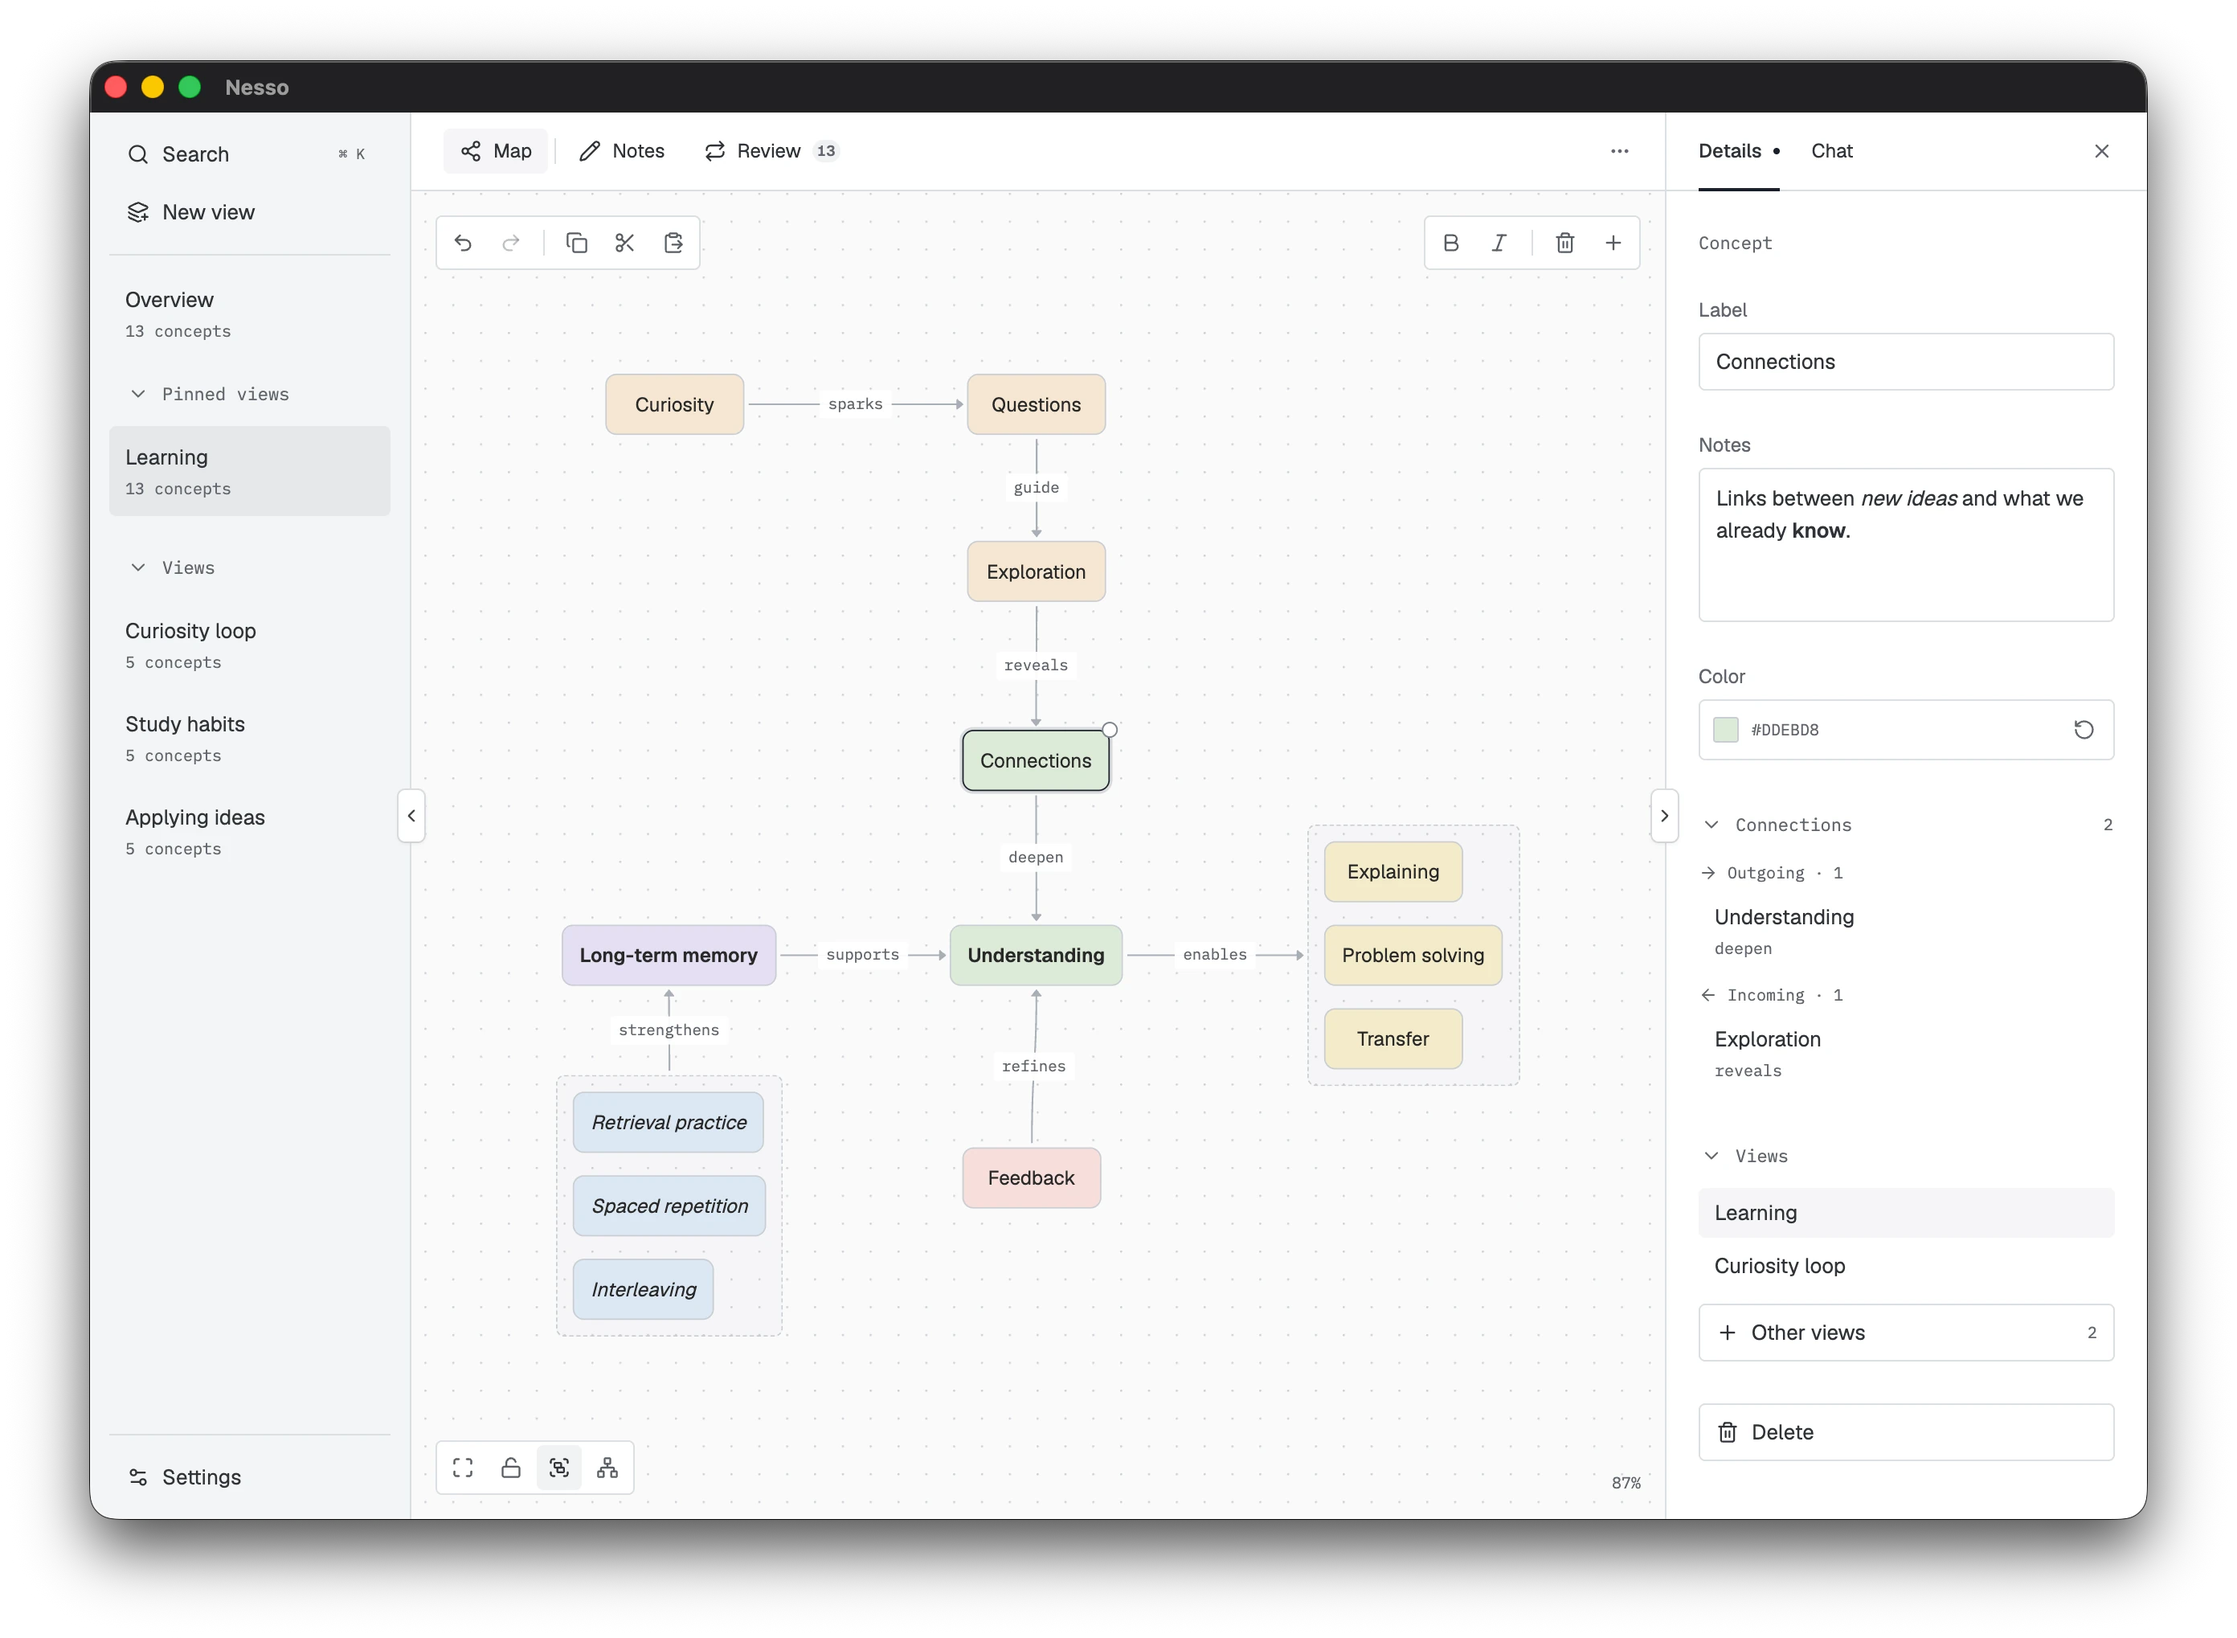
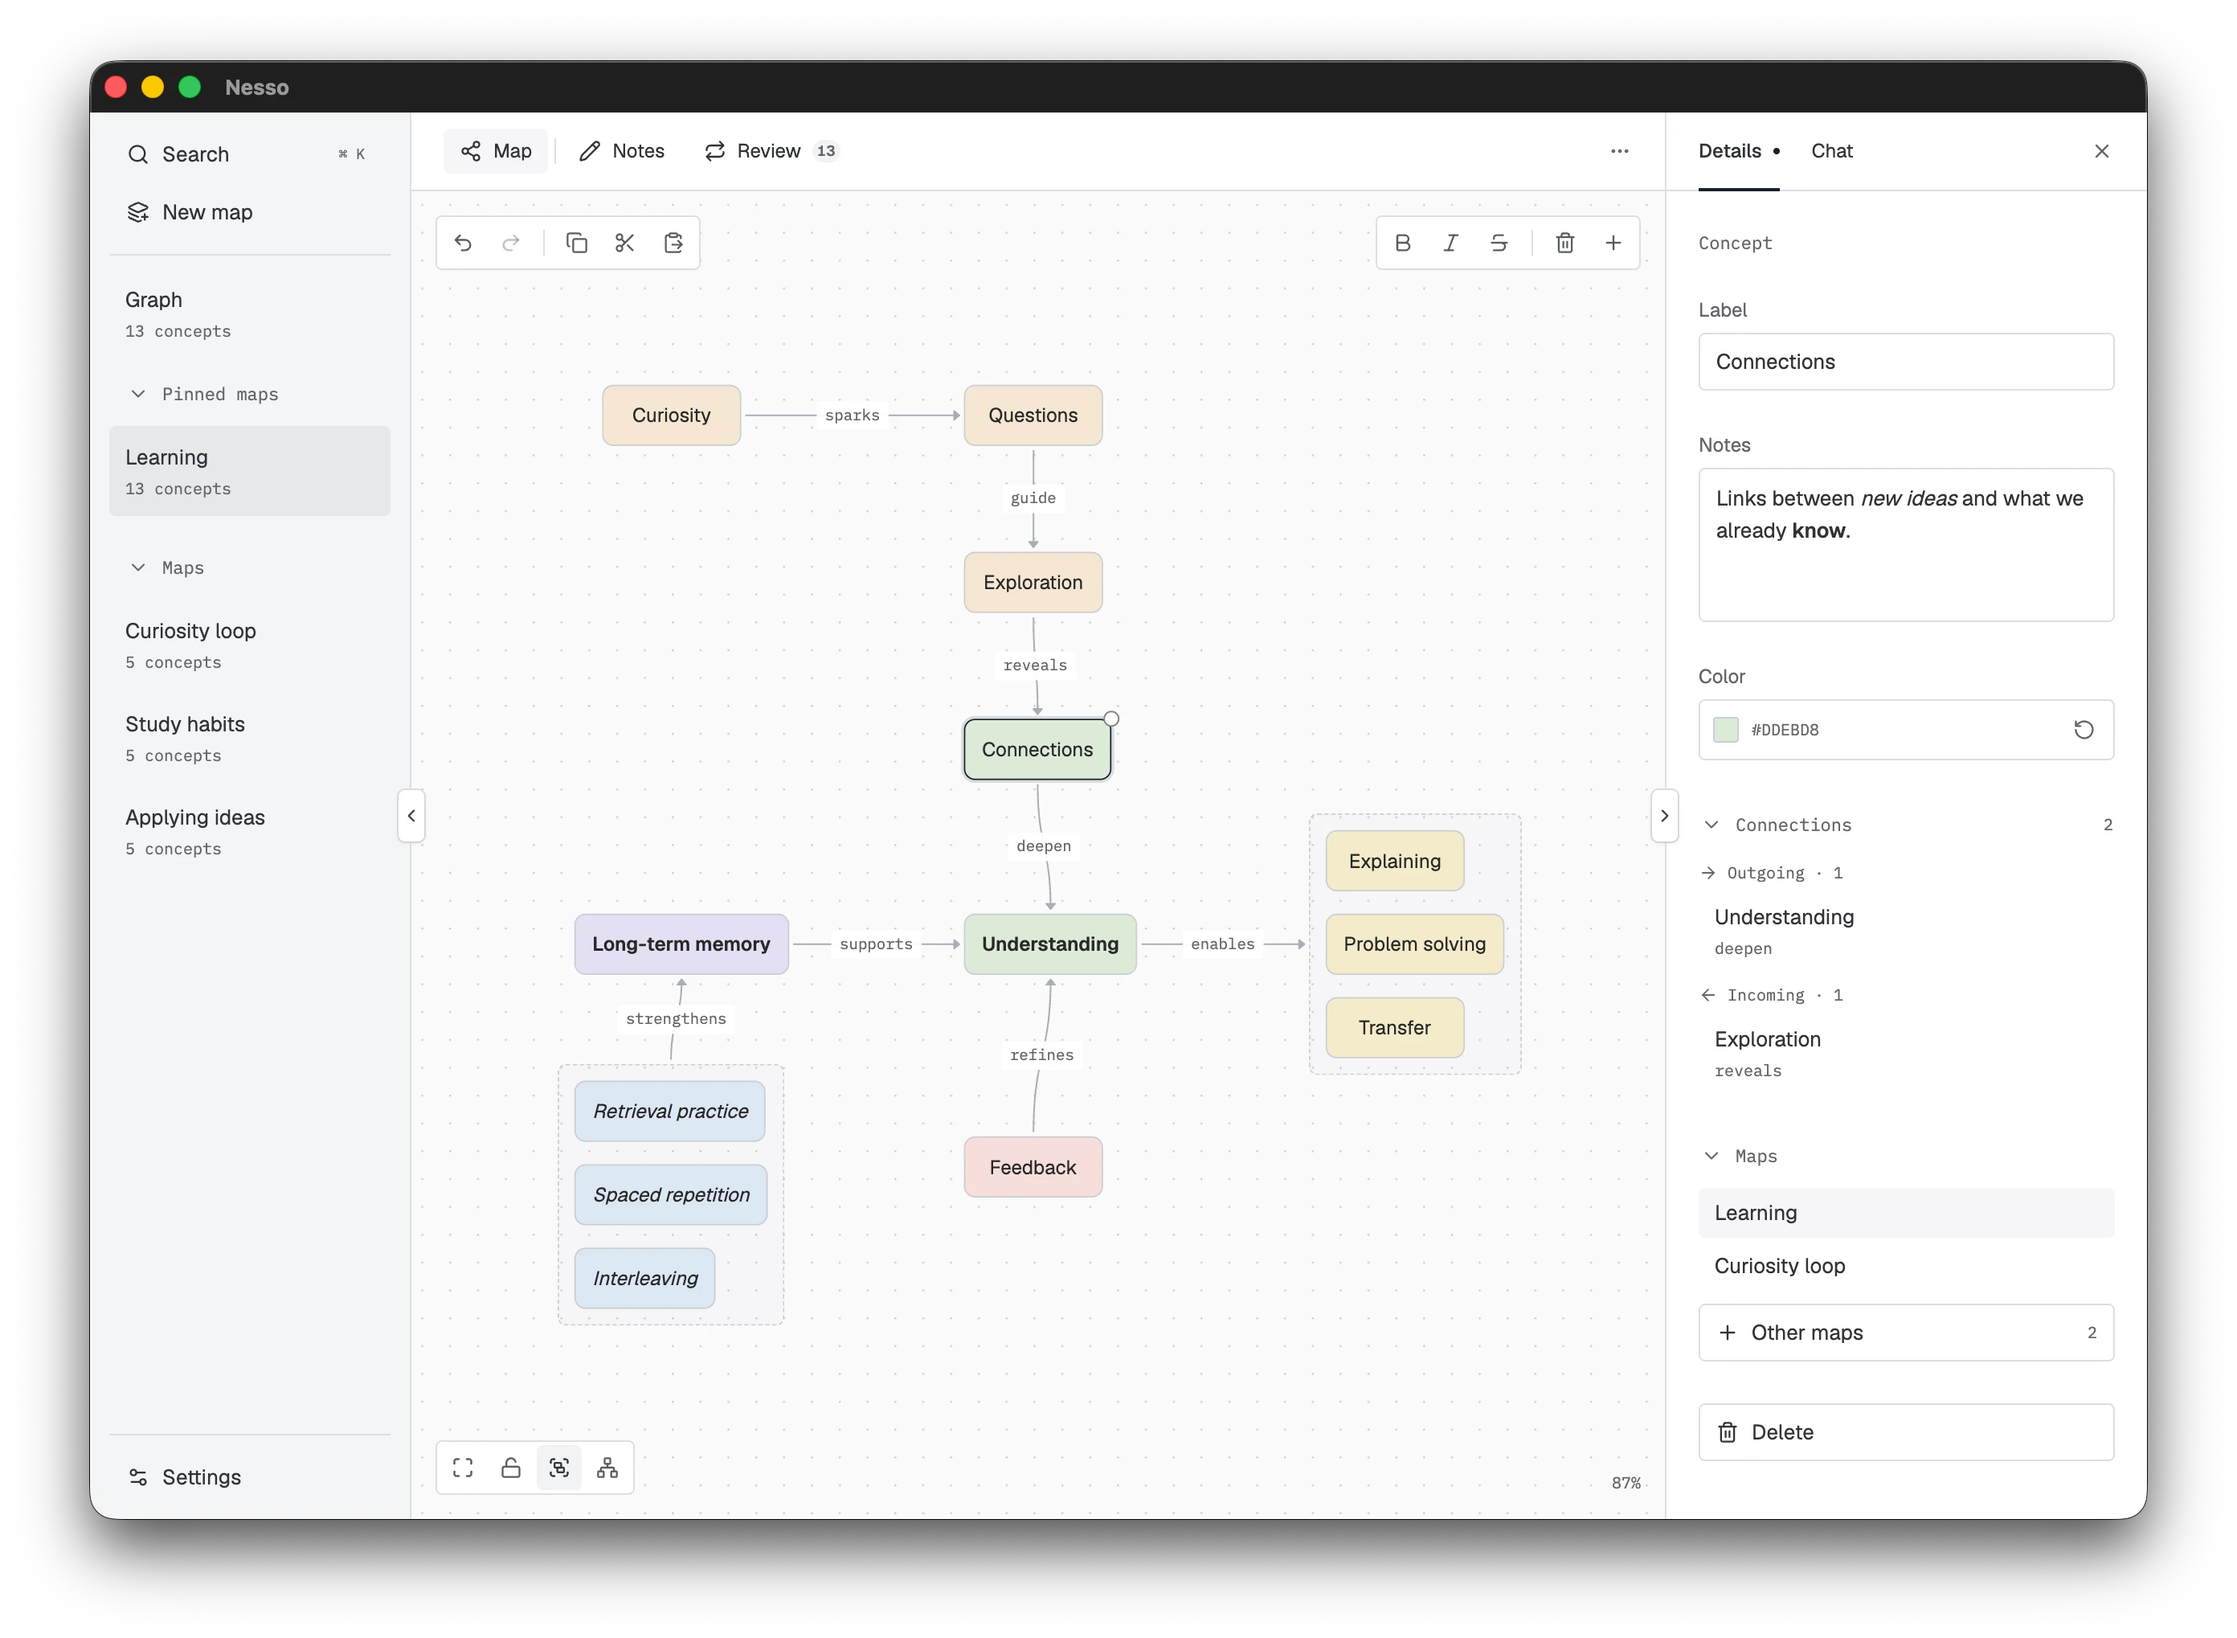
refactor(plugin)!: rename images.renderMap to renderCanvas
The method captures the canvas an action was invoked from, which is
either a map or the graph, so the map-specific name no longer fit.
Also refresh the landing screenshot with the renamed UI.

BREAKING CHANGE: plugins call `images.renderCanvas` instead of
`images.renderMap`; the wire method is `images.renderCanvas`.

diff --git a/packages/plugin/src/runtime.ts b/packages/plugin/src/runtime.ts
@@ -296,7 +296,7 @@ const request = z.discriminatedUnion('method', [
   z.strictObject({ ...envelope, method: z.literal('files.save'), params: fileSaveOptions }),
   z.strictObject({
     ...envelope,
-    method: z.literal('images.renderMap'),
+    method: z.literal('images.renderCanvas'),
     params: imageRenderOptions,
   }),
 ])
@@ -443,7 +443,7 @@ export type ActionContext = {
   }
   readonly storage: PluginStorage
   readonly images: {
-    readonly renderMap: (options: ImageRenderOptions) => Promise<RenderedImage>
+    readonly renderCanvas: (options: ImageRenderOptions) => Promise<RenderedImage>
   }
   readonly signal: AbortSignal
 }
@@ -507,7 +507,7 @@ const results = {
   'notifications.notify': id,
   'files.open': fileOpenResult,
   'files.save': z.strictObject({ saved: z.boolean() }),
-  'images.renderMap': renderedImage,
+  'images.renderCanvas': renderedImage,
 } satisfies Record<RequestMethod, z.ZodType>
 
 export function parsePluginMessage(value: unknown): z.infer<typeof message> {
@@ -705,7 +705,7 @@ export function createPluginClient(port: MessagePort, initial: unknown) {
       applyOperations,
     },
     notifications: { notify: (value) => call('notifications.notify', value) },
-    images: { renderMap: (options) => call('images.renderMap', options) },
+    images: { renderCanvas: (options) => call('images.renderCanvas', options) },
     files: {
       open: (options) => call('files.open', options),
       save: (options) => call('files.save', options),

diff --git a/src/plugins/action-channel.integration.test.ts b/src/plugins/action-channel.integration.test.ts
@@ -144,17 +144,17 @@ test('image rendering requires its own capability, is scoped to the invoked map 
   const denied = fixture(false, undefined, [], ['files'], undefined, undefined, false, render)
   t.after(denied.close)
   await denied.start()
-  await assert.rejects(denied.client.context.images.renderMap({ format: 'png' }), {
+  await assert.rejects(denied.client.context.images.renderCanvas({ format: 'png' }), {
     code: 'denied',
   })
   assert.equal(render.mock.callCount(), 0)
   const allowed = fixture(false, undefined, [], ['images'], undefined, undefined, false, render)
   t.after(allowed.close)
   await allowed.start()
-  const pending = allowed.client.context.images.renderMap({ format: 'png' })
+  const pending = allowed.client.context.images.renderCanvas({ format: 'png' })
   const rejected = assert.rejects(pending, { code: 'closed' })
   const signal = await started.promise
-  await assert.rejects(allowed.client.context.images.renderMap({ format: 'png' }), {
+  await assert.rejects(allowed.client.context.images.renderCanvas({ format: 'png' }), {
     code: 'unavailable',
   })
   assert.deepEqual(render.mock.calls[0].arguments.slice(0, 2), [allowed.target, { format: 'png' }])

diff --git a/src/plugins/images.ts b/src/plugins/images.ts
@@ -8,18 +8,18 @@ import {
   type RenderedImage,
 } from '@nesso-how/plugin/runtime'
 
-class MapImageError extends NessoError {
-  override name = 'MapImageError'
+class CanvasImageError extends NessoError {
+  override name = 'CanvasImageError'
 }
 
-export async function renderMapImage(
+export async function renderCanvasImage(
   store: HostStore,
   mapId: string | null,
   options: ImageRenderOptions,
   signal: AbortSignal,
 ): Promise<RenderedImage> {
-  const canvas = await renderMapCanvas(store, mapId, options, signal)
-  const fail = (message: string) => new MapImageError([{ path: 'image', message }])
+  const canvas = await drawCanvas(store, mapId, options, signal)
+  const fail = (message: string) => new CanvasImageError([{ path: 'image', message }])
   const blob = await new Promise<Blob>((resolve, reject) =>
     canvas.toBlob(
       (value) => (value ? resolve(value) : reject(fail('Could not encode PNG'))),
@@ -35,7 +35,7 @@ export async function renderMapImage(
   return { mediaType: 'image/png', base64: btoa(binary) }
 }
 
-async function renderMapCanvas(
+async function drawCanvas(
   store: HostStore,
   mapId: string | null,
   options: ImageRenderOptions,

diff --git a/src/plugins/actions.ts b/src/plugins/actions.ts
@@ -13,7 +13,7 @@ import { conceptPlacementOffset } from '../store/operations.ts'
 import { connectActionChannel } from './action-channel.ts'
 import { createPluginFrame } from './frame.ts'
 import { createPluginFiles } from './files.ts'
-import { renderMapImage } from './images.ts'
+import { renderCanvasImage } from './images.ts'
 import type { createPluginEntry } from './entry.ts'
 
 export type ActionPackage = {
@@ -108,7 +108,8 @@ export function loadActions(
           },
           {
             presentation: panel ? presentation : undefined,
-            renderImage: (mapId, options, signal) => renderMapImage(store, mapId, options, signal),
+            renderImage: (mapId, options, signal) =>
+              renderCanvasImage(store, mapId, options, signal),
             files: {
               open: (options) => files.open(options),
               save: (options) => files.save(options),

diff --git a/plugins/export/src/export.test.ts b/plugins/export/src/export.test.ts
@@ -64,7 +64,7 @@ test('export uses only the supplied target graph and notifies after accepted sav
       applyOperations: async () => assert.fail('Export must not write'),
     },
     files: { open: async () => assert.fail('Export must not open files'), save },
-    images: { renderMap: async () => assert.fail('JSON-LD export must not render images') },
+    images: { renderCanvas: async () => assert.fail('JSON-LD export must not render images') },
     storage: { list: noStorage, set: noStorage, delete: noStorage },
     notifications: { notify },
     signal: new AbortController().signal,

diff --git a/src/plugins/action-channel.ts b/src/plugins/action-channel.ts
@@ -282,7 +282,7 @@ export function connectActionChannel(
       notifications.push({ id, tone: message.params.tone })
       return id
     }
-    if (message.method === 'images.renderMap') {
+    if (message.method === 'images.renderCanvas') {
       if (!capabilities.has('images')) fail('denied', 'Capability not declared')
       if (!effects.renderImage) fail('unavailable', 'Image rendering is unavailable')
       if (rendering) fail('unavailable', 'Another image render is pending')

diff --git a/plugins/export/src/index.ts b/plugins/export/src/index.ts
@@ -44,7 +44,7 @@ export const create = (): readonly ActionContribution[] =>
       const result = await files.save({
         name: `nesso-${filename}.${format}`,
         ...(format === 'png'
-          ? await images.renderMap({ format: 'png', scale: 4 })
+          ? await images.renderCanvas({ format: 'png', scale: 4 })
           : {
               mediaType: 'application/ld+json',
               text: JSON.stringify(serializeMap(state.mapGraph, map?.name), null, 2),

diff --git a/packages/plugin/test/files.test.ts b/packages/plugin/test/files.test.ts
@@ -26,7 +26,7 @@ test('image requests restrict format, scale and target selection', () => {
     type: 'request',
     id: 1,
     contextId: 'context',
-    method: 'images.renderMap',
+    method: 'images.renderCanvas',
     params: { format: 'png', scale: 4 },
   }
   assert.deepEqual(parsePluginMessage(request), request)

diff --git a/packages/plugin/README.md b/packages/plugin/README.md
@@ -273,12 +273,12 @@ The invoked map is **not a write sandbox**: permitted writes can affect the whol
 | `files.open({ extensions: ['json'], mimeTypes: ['application/json'] })`                                | `files`             | `{ name, mediaType, text }`, or `null` on cancellation. Extensions omit the dot. |
 | `files.save({ name: 'graph.json', mediaType: 'application/json', text })`                              | `files`             | `{ saved: boolean }`; cancellation returns `false`.                              |
 | `files.save({ name: 'graph.png', mediaType: 'image/png', base64 })`                                    | `files`             | `{ saved: boolean }`; the host decodes canonical base64 before saving.           |
-| `images.renderMap({ format: 'png', scale: 2 })`                                                        | `images`            | `{ mediaType: 'image/png', base64 }` for the invoked map.                        |
+| `images.renderCanvas({ format: 'png', scale: 2 })`                                                     | `images`            | `{ mediaType: 'image/png', base64 }` for the invoked canvas.                     |
 | `notifications.notify({ tone: 'info', title: { en: 'Done' }, description: { en: 'Labels updated' } })` | `notifications`     | A notification ID. Tone is `info` or `warning`; description is optional.         |
 
 File saves accept exactly one of UTF-8 `text` or canonical `base64` (without a data URL prefix), with a 16 MiB decoded byte limit. File opening remains UTF-8 text only. Host-managed dialogs or browser downloads grant no unrestricted filesystem access. Plugins have no Node, host DOM, direct filesystem, clipboard, or network access.
 
-`images.renderMap` captures the invoked map with the current theme and fonts, without selection or canvas controls. In the graph (`mapId` `null`) it captures every concept as shown on the graph canvas. Scale defaults to `2`, or accepts `4`, and is a maximum: maps too large for it render at the highest of `4`, `2`, or `1` within 8192 pixels per side and 16,777,216 pixels total. Empty maps, maps over that budget at scale `1`, and PNGs over 16 MiB fail. Save the result separately with `files.save({ name: 'map.png', ...image })`; this also requires `files`.
+`images.renderCanvas` captures the canvas the action was invoked from with the current theme and fonts, without selection or canvas controls: the map, or in the graph (`mapId` `null`) every concept as shown on the graph canvas. Scale defaults to `2`, or accepts `4`, and is a maximum: canvases too large for it render at the highest of `4`, `2`, or `1` within 8192 pixels per side and 16,777,216 pixels total. Empty canvases, canvases over that budget at scale `1`, and PNGs over 16 MiB fail. Save the result separately with `files.save({ name: 'map.png', ...image })`; this also requires `files`.
 
 Failures throw `PluginError` with `code` and `{ path, message }[]` issues. Let them propagate instead of reporting success. Files and notifications cannot be rolled back with graph edits.
 
